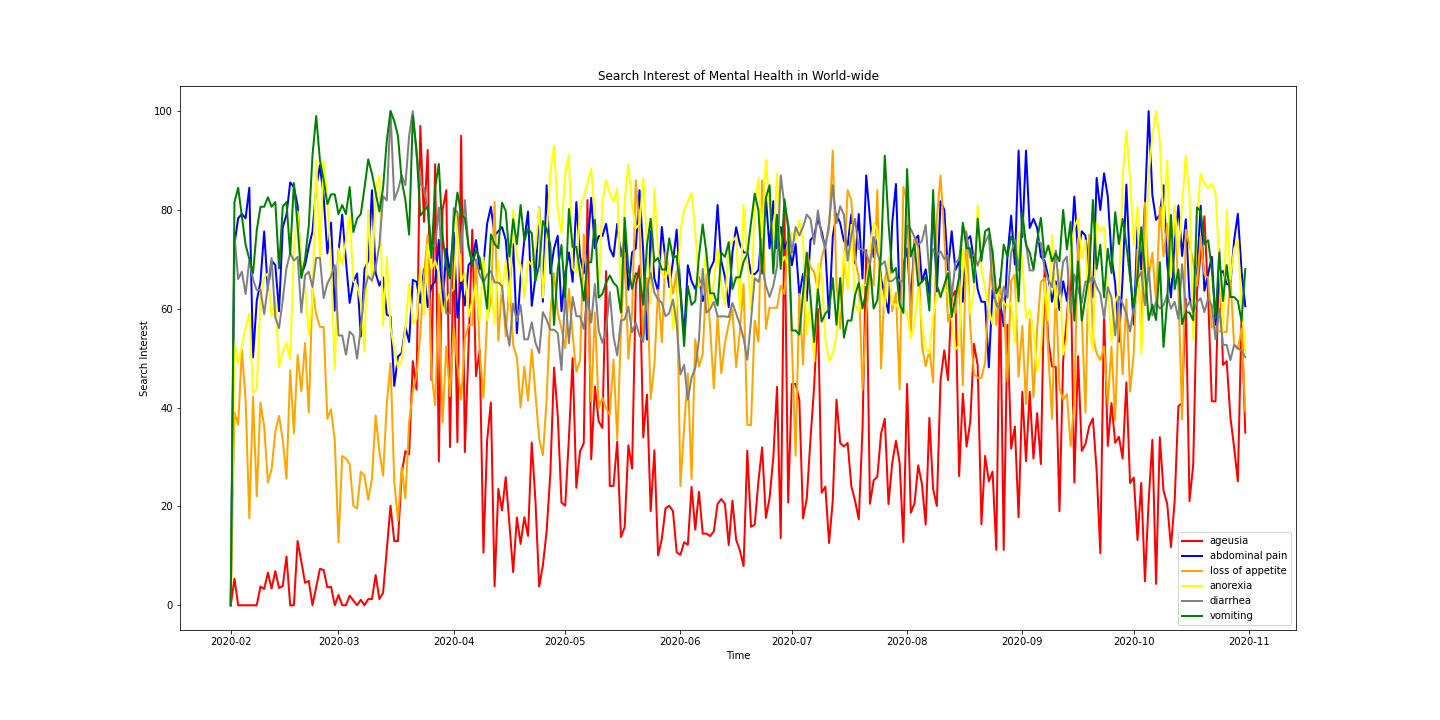
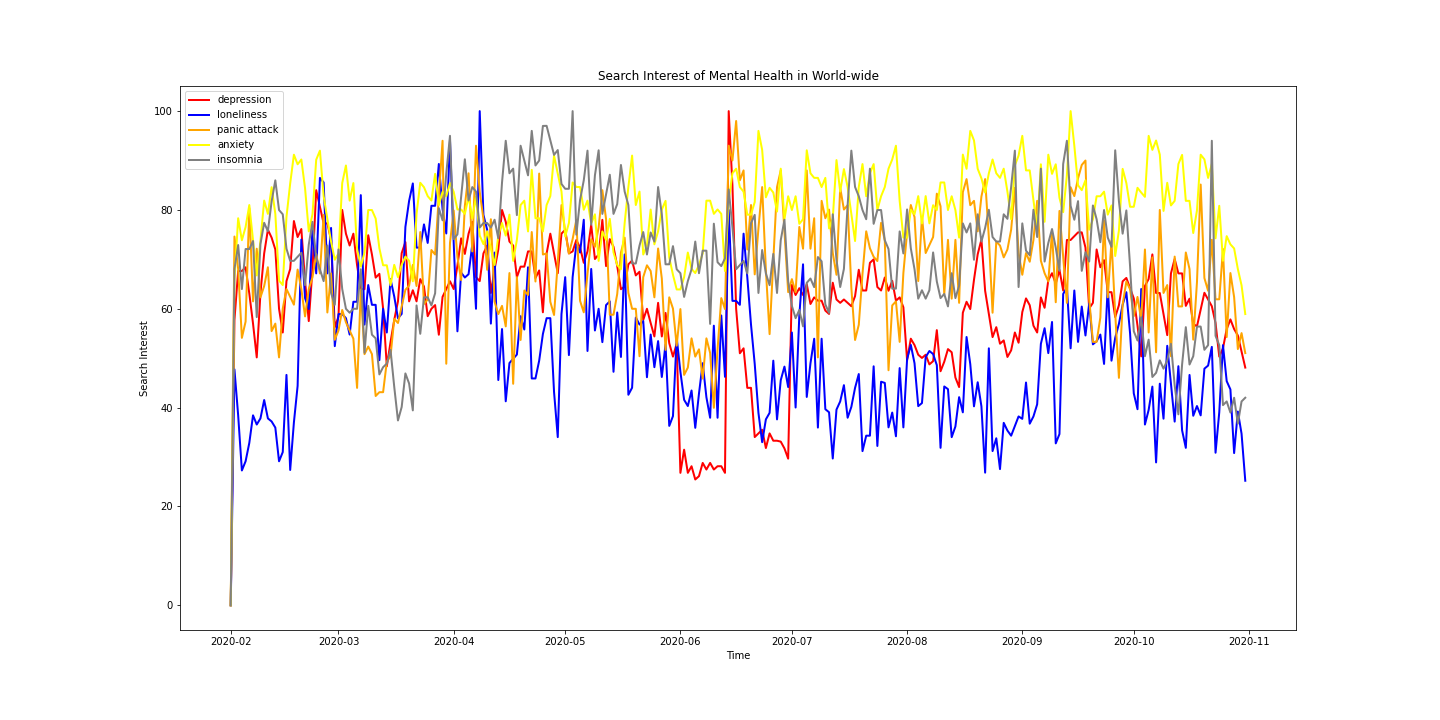
update daily search interest data

Changed region(s): [[0.125, 0.1222, 0.9062, 0.8861], [0.1562, 0.7639, 0.2812, 0.8556]]

diff --git a/dev/utility.py b/dev/utility.py
@@ -17,12 +17,11 @@ import datetime as dt
 import matplotlib.dates as mdates
 import random
 
-kw_list = ['ageusia',
-           'abdominal pain',
-           'loss of appetite',
-           'anorexia',
-           'diarrhea',
-           'vomiting']
+kw_list = ['depression',
+           'loneliness',
+           'panic attack',
+           'anxiety',
+           'insomnia']
 keyword_color = ['red', 'blue', 'orange', 'yellow',
                  'gray', 'green', 'violet', 'black',
                  'magenta', 'cyan']
